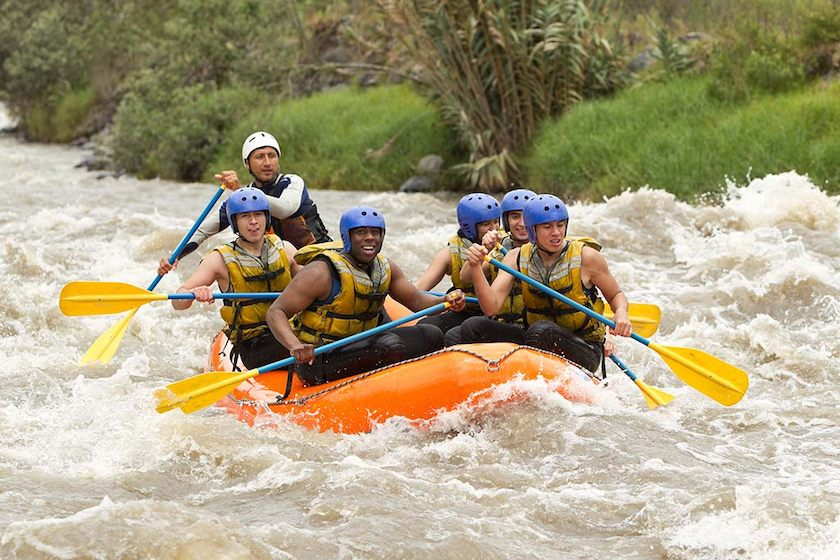
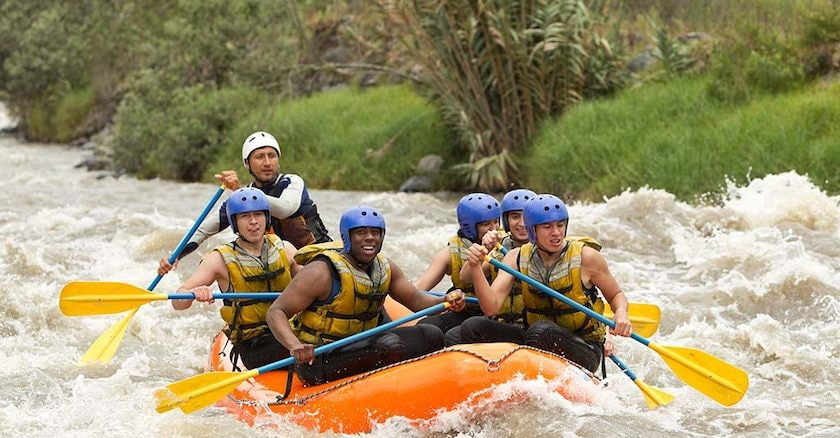
Submiting week04 Rafting website

diff --git a/wwr/about.html b/wwr/about.html
@@ -12,7 +12,9 @@
 
 <body>
     <header>
-        <img src="images/logo.png" alt="Company logo" width="100">
+        <div class="logo-container">
+            <img src="images/logo.png" alt="Company logo" width="100">
+        </div>
         <nav>
             <a href="index.html" class="nav-link">Home</a>
             <a href="about.html" class="nav-link">About Us</a>
@@ -22,7 +24,6 @@
     </header>
     <main>
         <div class="hero">
-            <img src="images/hero-background.jpg" alt="" class="hero-img">
             <h1>White Water Rafting Company</h1>
             <article>
                 <img src="images/rafting56_600.jpg" alt="Happy Clients">
@@ -32,17 +33,40 @@
         </div>
         <section>
             <h2>History</h2>
-            <p>Founded in 2015, White Water Rafting Company began with a simple vision: to share the excitement of river adventures while promoting a deep appreciation for the outdoors. What started as a small operation with a few rafts and a passionate team of local river guides quickly grew into one of the region's favorite adventure destinations.
+            <div class="history">
+                <p>Founded in 2015, White Water Rafting Company began with a simple vision: to share the excitement of river adventures while promoting a deep appreciation for the outdoors. What started as a small operation with a few rafts and a passionate team of local river guides quickly grew into one of the region's favorite adventure destinations.
 
-                Over the years, White Water Rafting Company has welcomed thousands of guests, from first-time paddlers to experienced thrill-seekers. Through a commitment to safety, exceptional customer service, and environmental responsibility, the company has earned a reputation for delivering unforgettable experiences on the water.
-
-                <br><br>Today, White Water Rafting offers guided trips for families, groups, and adventure enthusiasts of all skill levels. While our company has grown, our core values remain unchanged: respect for nature, dedication to safety, and a passion for creating lifelong memories on every journey down the river.
-
-                From humble beginnings to unforgettable adventures, our story continues with every rapid we ride together.
-            </p>
+                </p>
+                <img src="images/rafting56.jpg" alt="Happy clients" class="history-img">
+                <p> Through a commitment to safety, exceptional customer service, and environmental responsibility, the company has earned a reputation for delivering unforgettable experiences on the water.
+                    Today, White Water Rafting offers guided trips for families, groups, and adventure enthusiasts of all skill levels. While our company has grown, our core values remain unchanged: respect for nature, dedication to safety.
+                </p>
+            </div>
         </section>
         <section>
             <h2>Adventure Awaits You!</h2>
+            <div class="adventure">
+                <figure>
+                    <img src="images/rafting26.jpg" alt="Rafting Ohio forest">
+                    <figcaption>Ohio forest</figcaption>
+                </figure>
+                <figure>
+                    <img src="images/rafting47.jpg" alt="White water rafting Virginia waters">
+                    <figcaption>Virginia waters 2018</figcaption>
+                </figure>
+                <figure>
+                    <img src="images/rafting42.jpg" alt="Group photo of Engineers and planners adventure">
+                    <figcaption>Engineers Adventure</figcaption>
+                </figure>
+                <figure>
+                    <img src="images/rafting19.jpg" alt="White River Rafting Miami 2022">
+                    <figcaption>Trip to Miami</figcaption>
+                </figure>
+                <figure>
+                    <img src="images/rafting4.jpg" alt="White river rafting 2024 Los Angelos">
+                    <figcaption>Mega Rage 2025</figcaption>
+                </figure>
+            </div>
         </section>
     </main>
     <footer>

diff --git a/wwr/styles/rafting.css b/wwr/styles/rafting.css
@@ -2,7 +2,7 @@
     --primary-color: #53768b;
     --secondary-color: #328CC1;
     --accent1-color: #fbad05;
-    --accent2-color: white;
+    --accent2-color: whitesmoke;
     --heading-font: 'Segoe UI', Tahoma, Geneva, Verdana, sans-serif;
     --body-font: Arial, Helvetica, sans-serif;
 }
@@ -19,10 +19,17 @@ body {
 }
 
 header,
+footer {
+    background-color: #f4eeff;
+    color: black;
+}
+
+header,
 main,
 footer {
     width: 840px;
     margin: 0 auto;
+    padding: 1rem;
 }
 
 h1,
@@ -31,74 +38,130 @@ h2 {
     color: var(--secondary-color);
 }
 
-nav,
-p,
-section,
-article {
-    margin: 16px;
-    padding: 8px;
+header {
+    display: grid;
+    grid-template-columns: 1fr 3fr;
+    align-items: center;
+}
+
+.logo-container {
+    display: flex;
+    justify-content: center;
+
+}
+
+header nav {
+    display: flex;
+    flex-direction: row;
+    justify-content: space-evenly;
 }
 
 .nav-link {
-    color: var(--secondary-color);
-    text-decoration: none;
-    display: block;
-    padding: 5px;
-}
-
-.socialmedia a {
+    color: black;
     text-decoration: none;
 }
 
 .hero {
-    position: relative;
-}
-
-.hero img {
-    display: block;
-    width: 100%;
-    height: auto;
+    display: flex;
+    flex-direction: column;
+    align-items: center;
 }
 
 .hero h1 {
-    position: absolute;
-    top: 20px;
-    width: 100%;
-    padding: 16px;
     text-align: center;
-    opacity: 0.9;
-    background-color: var(--accent1-color);
-    color: var(--accent2-color);
+    color: var(--accent1-color);
+    margin-bottom: 1rem;
 }
 
 .hero article {
-    position: absolute;
-    bottom: -16px;
-    background-color: var(--accent2-color);
-    opacity: 0.8;
+    display: grid;
+    grid-template-columns: 1fr auto;
     text-align: justify;
     color: var(--secondary-color);
+    align-items: center;
+    margin: 1rem;
 }
 
 .hero article img {
-    float: right;
-    width: 180px;
-    margin-left: 20px;
+    width: 150px;
     border: 5px solid var(--accent2-color);
     box-shadow: 0 0 5px var(--primary-color);
+    margin-left: 1rem;
+    order: 1;
+}
+
+.hero,
+.history,
+.adventure {
+    padding: 1rem 2rem;
+}
+
+section {
+    margin: 1rem auto;
+    background-color: var(--accent2-color);
+    padding: 1rem 0;
 }
 
 section p {
     text-align: justify;
 }
 
-footer {
+section h2 {
     text-align: center;
-    border-top: 4px solid var(--accent1-color);
-    color: var(--primary-color);
+
+}
+
+.history {
+    display: grid;
+    grid-template-columns: auto 1fr auto;
+    gap: 2rem;
+}
+
+.history-img {
+    width: 200px;
+}
+
+figure {
+    width: 120px;
+    height: auto;
+}
+
+figure img {
+    width: 120px;
+}
+
+.adventure {
+    display: grid;
+    grid-template-columns: repeat(5, 1fr);
+    gap: 1rem;
+    justify-content: space-evenly;
+}
+
+figcaption {
+    font-size: 0.7rem;
+    text-align: center;
+}
+
+footer {
+    position: relative;
+    display: flex;
+    justify-content: center;
+    align-items: center;
 }
 
 footer img {
     width: 20px;
-    margin: 0 3px;
+}
+
+footer p {
+    align-self: center;
+}
+
+.socialmedia {
+    position: absolute;
+    right: 2rem;
+}
+
+.socialmedia a {
+    text-decoration: none;
 }
